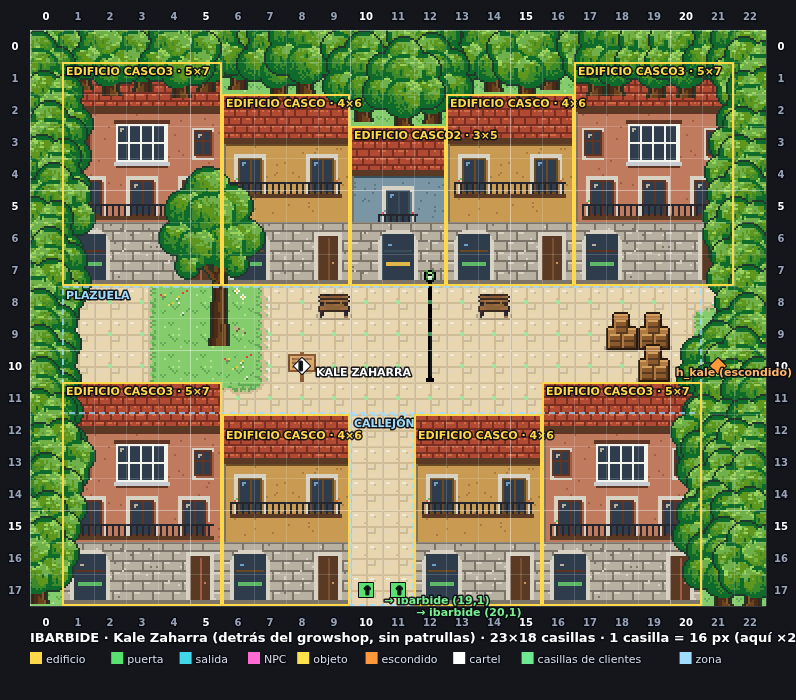
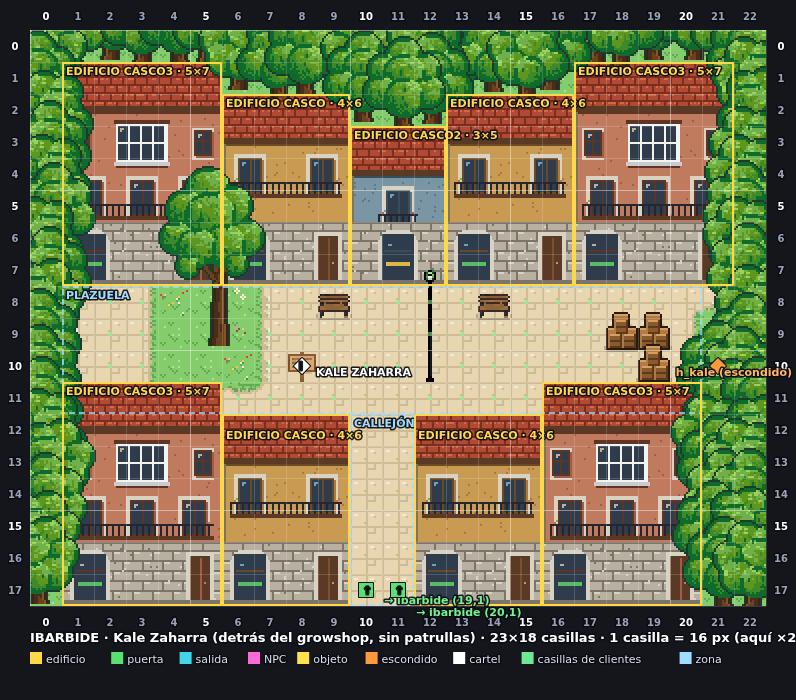
WIP 1.14: arreglos de la revisión (techos del callejón, clientes en la boca del callejón, flor en el camino)
Claude-Session: https://claude.ai/code/session_01WWCwQsjgK3rvw6gQoSEGYZ

Changed region(s): [[0.0905, 0.03, 0.3015, 0.15], [0.6935, 0.03, 0.9045, 0.15]]

diff --git a/ribera-verde/src/js/04-mapas.js b/ribera-verde/src/js/04-mapas.js
@@ -90,7 +90,7 @@ function buildMaps(){
   rect(m,13,19,13,21,(x,y)=>gr(m,x,y,'plaza'));rect(m,27,19,27,20,(x,y)=>gr(m,x,y,'plaza'));rect(m,19,25,21,25,(x,y)=>gr(m,x,y,'plaza'));
   ob(m,20,19,'fountain');[[16,16],[24,16],[16,22],[24,22]].forEach(([x,y])=>ob(m,x,y,'bench'));
   [[14,14],[26,14],[14,24],[26,24]].forEach(([x,y])=>ob(m,x,y,'lamp'));ob(m,17,13,'sign');
-  [17,20,23,26].forEach(x=>ob(m,x,28,'tree'));[[13,18],[12,22],[27,16],[18,27],[25,28],[13,27]].forEach(([x,y])=>gr(m,x,y,'flowers'));
+  [17,20,23,26].forEach(x=>ob(m,x,28,'tree'));[[13,18],[11,20],[27,16],[18,27],[25,28],[13,27]].forEach(([x,y])=>gr(m,x,y,'flowers'));
   // river + docks
   rect(m,30,13,38,13,(x,y)=>ob(m,x,y,'fence'));
   rect(m,31,14,38,28,(x,y)=>gr(m,x,y,'water'));
@@ -282,12 +282,12 @@ function buildMaps(){
   // la Kale Zaharra (1.14): detrás del growshop, por el callejón, una plazuela de casas viejas. Sin patrullas (no entran), pero con
   // más ladrones: para vender en la ciudad sin policía. Se sale por el mismo callejón, entre dos casas, abajo
   const cj=newMap('callejon',23,18,'plaza');cj.music='callejon';
-  rect(cj,0,0,22,1,(x,y)=>{gr(cj,x,y,'grass');monte(cj,x,y);});
+  rect(cj,0,0,22,0,(x,y)=>{gr(cj,x,y,'grass');monte(cj,x,y);});
   let cx=1;[['casco3',5,7],['casco',4,6],['casco2',3,5],['casco',4,6],['casco3',5,7]].forEach(([k,w,h])=>{building(cj,k,cx,8-h,w,h,null);
     for(let x=cx;x<cx+w;x++)for(let y=0;y<8-h;y++){gr(cj,x,y,'grass');monte(cj,x,y);}cx+=w;});
   [[1,11,'casco3',5,7],[6,12,'casco',4,6],[12,12,'casco',4,6],[16,11,'casco3',5,7]].forEach(([x,y,k,w,h])=>building(cj,k,x,y,w,h,null));
   rect(cj,6,11,9,11,(x,y)=>gr(cj,x,y,'plaza'));rect(cj,12,11,15,11,(x,y)=>gr(cj,x,y,'plaza'));
-  for(let y=2;y<18;y++)[0,22].forEach(x=>{gr(cj,x,y,'grass');monte(cj,x,y);});for(let y=11;y<18;y++){gr(cj,21,y,'grass');monte(cj,21,y);}
+  for(let y=1;y<18;y++)[0,22].forEach(x=>{gr(cj,x,y,'grass');monte(cj,x,y);});for(let y=11;y<18;y++){gr(cj,21,y,'grass');monte(cj,21,y);}
   // la plazuela: un árbol viejo en su alcorque, bancos, cajas de la frutería, una farola y un arbusto (con algo dentro)
   rect(cj,4,8,6,10,(x,y)=>gr(cj,x,y,'grass'));ob(cj,5,9,'tree2');gr(cj,4,8,'flowers');gr(cj,6,10,'flowers');
   [[9,8],[14,8]].forEach(([x,y])=>ob(cj,x,y,'bench'));[[18,9],[19,9],[19,10]].forEach(([x,y])=>ob(cj,x,y,'crate'));ob(cj,12,10,'lamp');
@@ -375,8 +375,8 @@ function computeClientTiles(){
     astilleros:(x,y,g)=>y>=12&&y<=21&&x>=2&&(g==='dirt'||g==='dock')&&!(x>=15&&x<=22&&y<=14),
     puerto:(x,y,g)=>y>=9&&(g==='plaza'||g==='dock'),valdehierro:(x,y,g)=>(y===8||y===11||y>=20)&&(g==='walk'||g==='grass'),
     mendialde:(x,y,g)=>g==='plaza',errotabarri:(x,y,g)=>g==='pista',
-    ibarbide:(x,y,g)=>y>=8&&y<=23&&y!==21&&y!==22&&!(y===8&&x>=14&&x<=17)&&(g==='plaza'||g==='walk'||g==='hormigon')&&!(y===20&&x>=7&&x<=12),ensanche:(x,y,g)=>(y===9||y===12||y>=13)&&(g==='walk'||g==='plaza'||g==='dirt'),
-    callejon:(x,y,g)=>y>=8&&y<=11&&g==='plaza'};   // la ciudad (1.14)
+    ibarbide:(x,y,g)=>y>=8&&y<=23&&y!==21&&y!==22&&!(y===8&&x>=14&&x<=17)&&!(y===8&&x>=19&&x<=20)&&(g==='plaza'||g==='walk'||g==='hormigon')&&!(y===20&&x>=7&&x<=12),ensanche:(x,y,g)=>(y===9||y===12||y>=13)&&(g==='walk'||g==='plaza'||g==='dirt'),
+    callejon:(x,y,g)=>y>=8&&y<=11&&g==='plaza'&&!(y===11&&x>=10&&x<=11)};   // la ciudad (1.14)
   for(const k in zona){const m=MAPS[k],l=CLIENT_TILES[k]=[],tp=tapadas(m),va=aPie(m,entrada(k));
     for(let y=1;y<m.h-1;y++)for(let x=1;x<m.w-1;x++){const g=m.g[y][x];if(zona[k](x,y,g)&&va.has(x+','+y)&&!tp.has(x+','+y)&&!(PARADAS[k]&&PARADAS[k].a[0]===x&&PARADAS[k].a[1]===y))l.push([x,y]);}}   // ni en la casilla donde deja el autobús (1.10)
 }
